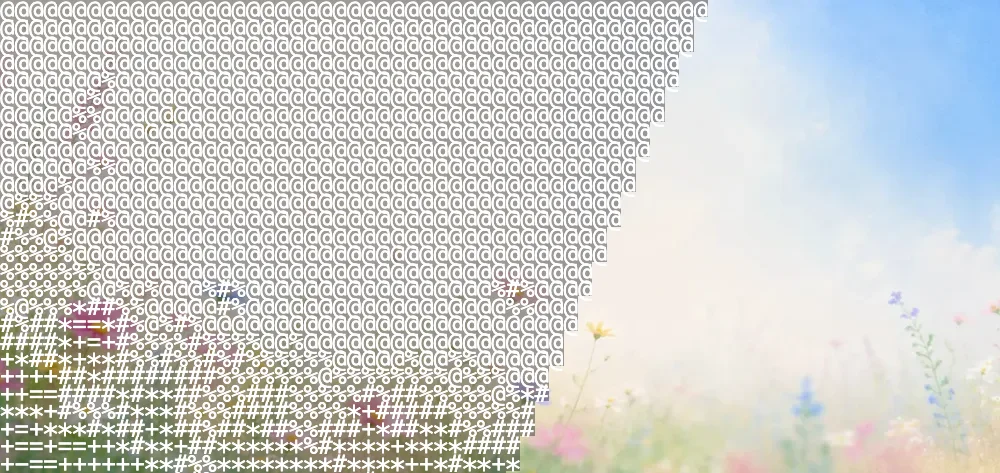
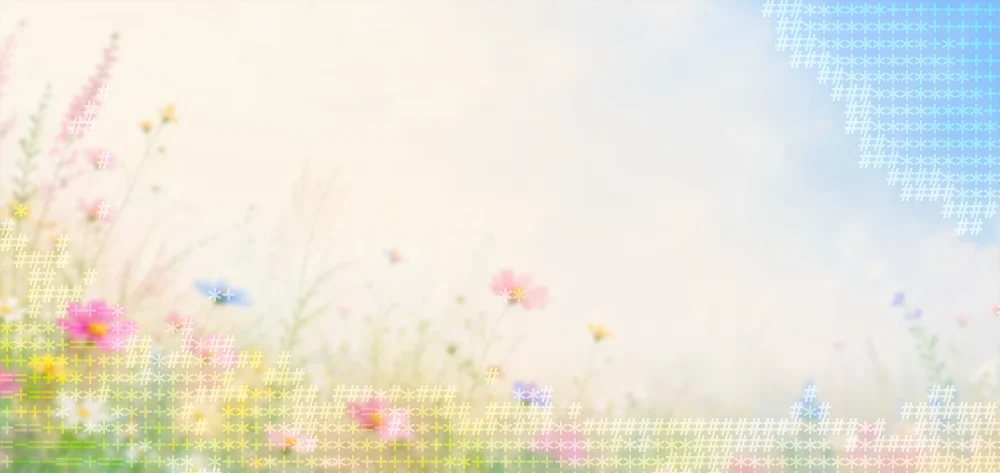
Retune the readme overlay to select by brightness
Glyphs now land on the darker 30% of cells rather than a diagonal wedge, which
on this photograph picks out the flowers and the patch of blue sky and leaves
the washed middle alone. They keep their cell colours and blend as overlay, so
the type reads as part of the picture instead of a panel laid over it.

The cell backing is gone, which it can be once the glyphs are no longer white.

assets/README.md records the settings, since they came out of the tuner rather
than out of a considered edit.

diff --git a/assets/tuner.html b/assets/tuner.html
@@ -82,7 +82,10 @@
     <h2>Glyphs</h2>
     <label><span class="row"><span>fontSize</span><b id="v-font"></b></span>
       <input type="range" id="font" min="8" max="48" step="1" value="24"></label>
-    <label><span class="row"><span>glyph colour</span></span>
+    <label class="row" style="gap:8px;align-items:center;margin-bottom:8px">
+      <input type="checkbox" id="cellcol" style="margin:0" checked>
+      <span>use each cell's own colour</span></label>
+    <label id="glyph-wrap"><span class="row"><span>flat glyph colour</span></span>
       <input type="color" id="glyph" value="#ffffff"></label>
     <label><span class="row"><span>ramp</span></span>
       <select id="ramp">
@@ -264,6 +267,11 @@ function draw() {
   };
   const grid = renderAscii(source, { ...render, mask: maskFor(cell) });
 
+  // no colour at all means every glyph keeps the mean colour of its own cell
+  const useCell = el('cellcol').checked;
+  const glyphColour = useCell ? undefined : el('glyph').value;
+  el('glyph-wrap').style.display = useCell ? 'none' : 'block';
+
   const blur = num('blur');
   const bop = num('bop');
   const blend = el('blend').value;
@@ -276,7 +284,7 @@ function draw() {
     }),
     asciiLayer(grid, {
       fontSize, ...cell,
-      color: el('glyph').value,
+      color: glyphColour,
       cellBackground: backing,
       fillBlankCells: el('blanks').value === 'true',
       blend: blend === 'normal' ? undefined : blend,
@@ -333,14 +341,15 @@ paintLayers(ctx, [
   asciiLayer(grid, {
     fontSize: ${fontSize},
     ...cell,
-    color: '${el('glyph').value}',
+    ${useCell ? '// no color: each glyph keeps its cell colour'
+              : `color: '${el('glyph').value}',`}
     cellBackground: ${backing ? `'${backing}'` : 'undefined'},
     fillBlankCells: ${el('blanks').value},${blend === 'normal' ? '' : `\n    blend: '${blend}',`}
   }),
 ]);`;
 }
 
-for (const id of ['font','glyph','ramp','blend','contrast','bright','sat','backing',
+for (const id of ['font','glyph','cellcol','ramp','blend','contrast','bright','sat','backing',
                   'alpha','blanks','shape','cut','slope','lmin','lmax','linv',
                   'blur','bop','base']) {
   el(id).addEventListener('input', draw);

diff --git a/assets/README.md b/assets/README.md
@@ -38,3 +38,35 @@ The sun is worth a note. Its silhouette is used as a `mask` predicate, but the b
 glyphs read is painted from that silhouette rather than taken from the asset. The asset's ink
 covers about a seventh of the frame, since the disc is hollow and the rays leave wide gaps, so
 feeding those pixels in as the source leaves most of the shape reading as background.
+
+## The readme overlay
+
+`overlay.webp` comes out of `tuner.html`. The settings behind the committed one:
+
+```ts
+const cell = measureCell(ctx, 23);
+
+const grid = renderAscii(source, {
+  mode: 'characters',
+  ...cell,
+  ramp: 'standard',
+  tone: { contrast: 1.5, brightness: -0.28 },
+  grade: { saturation: 1.5 },
+  mask: (col, row, lum) => !(lum >= 0.76 && lum <= 1),
+});
+
+paintLayers(ctx, [
+  fillLayer('#0b0c0f'),
+  imageLayer(photo, { blur: 2 }),
+  asciiLayer(grid, {
+    fontSize: 23,
+    ...cell,
+    fillBlankCells: false,
+    blend: 'overlay',
+  }),
+]);
+```
+
+The mask keeps the darker 30% of cells, which on this photograph means the
+flowers and the patch of blue sky, and leaves the pale middle alone. Glyphs take
+their cell colours, so the flowers colour their own type.

diff --git a/README.md b/README.md
@@ -22,7 +22,7 @@ Three modes: character ramps, unicode braille at 2x4 dots per cell, and Floyd-St
 </p>
 
 <p align="center">
-  <sub>the photograph is the backdrop, glyphs cover one region, and a <code>mask</code> predicate draws the edge</sub>
+  <sub>the photograph is the backdrop, glyphs land only on cells darker than 0.76, each in its own colour</sub>
 </p>
 
 The banner above was made with the library. The sun's silhouette is a mask predicate and the wobble comes from `sampleOffset`; the source is in [`assets/banner.js`](assets/banner.js).
